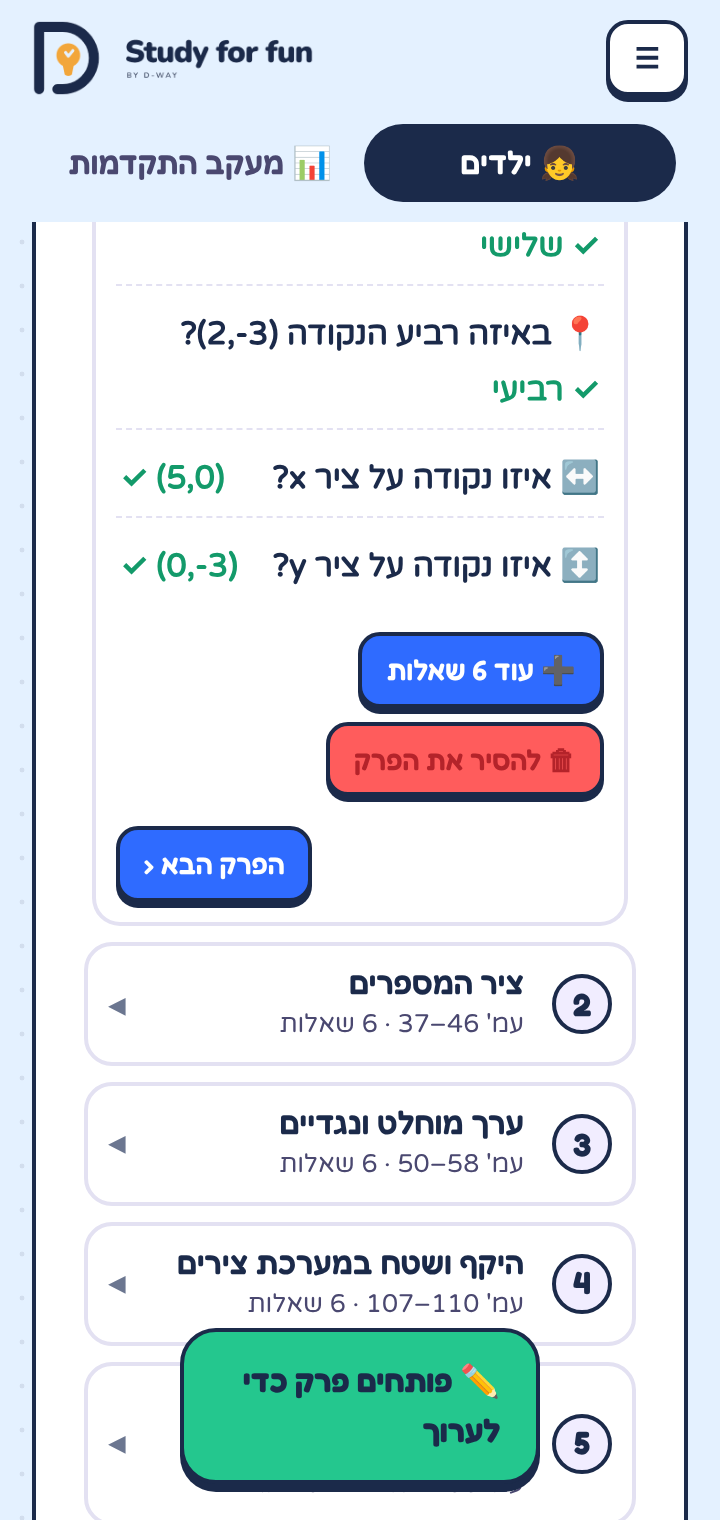
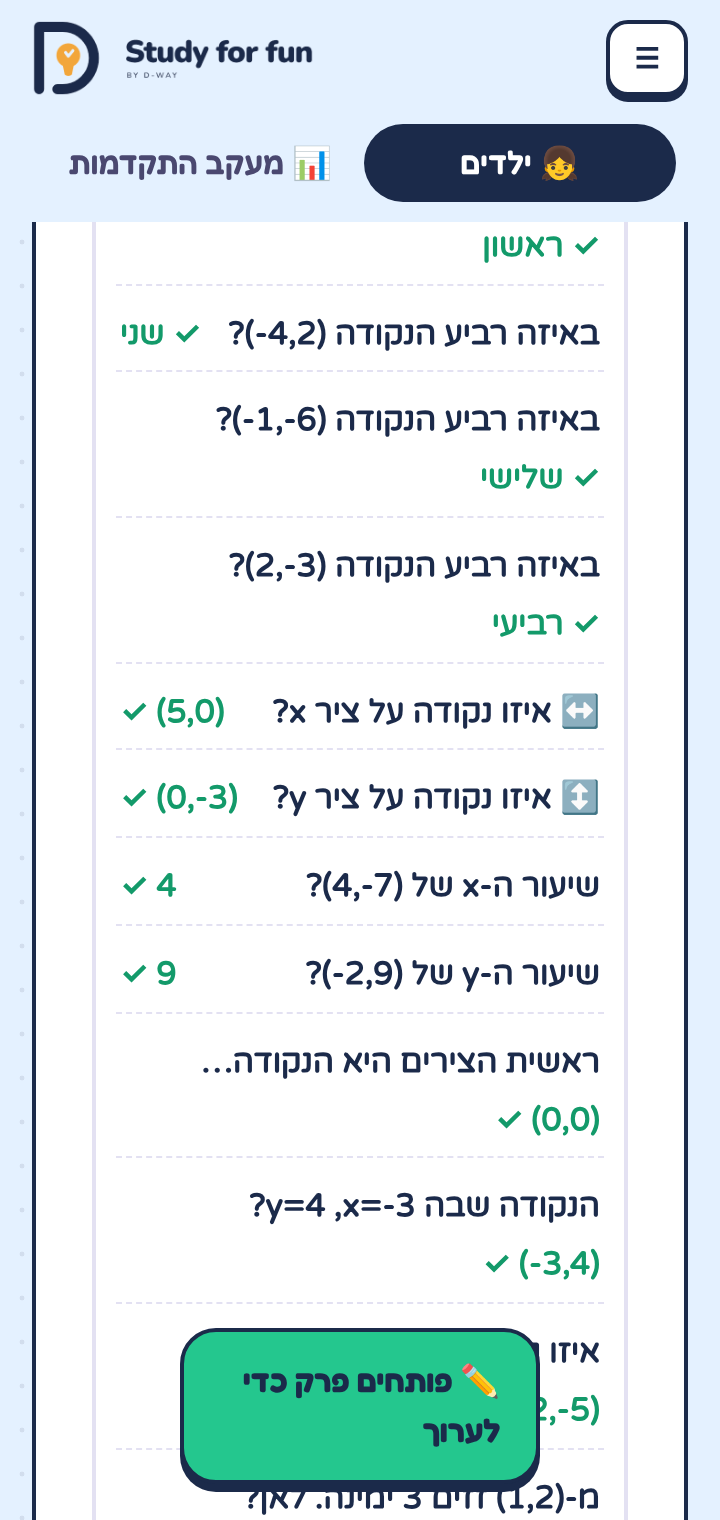
Pictures by default: no button; questions without a picture get one in the background; catalog sets untouched
Claude-Session: https://claude.ai/code/session_018ARCFrnypinXbQosbA2nGK

diff --git a/public/index.html b/public/index.html
@@ -14,8 +14,8 @@
   });
 })();
 </script>
-<meta name="sff-ver" content="sff-v102">
-<script src="/i18n.js?v=sff-v102"></script>
+<meta name="sff-ver" content="sff-v103">
+<script src="/i18n.js?v=sff-v103"></script>
 <script>
 /* Math inside Hebrew ("מה חסר? _ + 20 = 90") is wrapped in Unicode isolates U+2066…U+2069. iPhone Safari ignores them and
    shows "90 = 20 + _", so every such run is drawn in a real left-to-right element instead. */
@@ -36,7 +36,7 @@
   document.addEventListener('DOMContentLoaded',()=>walk(document.body));
 })();
 </script>
-<script src="/kid-rest.js?v=sff-v102"></script>
+<script src="/kid-rest.js?v=sff-v103"></script>
 <meta charset="utf-8">
 <meta name="viewport" content="width=device-width, initial-scale=1, maximum-scale=1, minimum-scale=1, user-scalable=no">
 <script>/* soft reload: the screen dims with a spinner instead of the white logo screen */
@@ -60,7 +60,7 @@ d.addEventListener('touchmove',function(e){if(e.touches&&e.touches.length>1)e.pr
   if(!kid){ try{ kid=!!(localStorage.getItem('sff_fam')&&localStorage.getItem('sff_tok')&&localStorage.getItem('sff_unlock')!=='1'); }catch(e){} }
   if(!kid){ var l=document.createElement('link'); l.rel='manifest'; l.href='/manifest.webmanifest'; document.head.appendChild(l); }
 }catch(e){} })();</script>
-<script src="/firebase-config.js?v=sff-v102"></script>
+<script src="/firebase-config.js?v=sff-v103"></script>
[1 lines of base64/hex data omitted]
 <link rel="apple-touch-icon" href="/icons/apple-touch-icon.png">
 <link rel="preconnect" href="https://fonts.googleapis.com">
@@ -453,7 +453,7 @@ body.kidside .pfoot,body.locked .pfoot{display:none}
 .quota{margin:12px 16px 0;border:2px solid #E3E1F2;border-radius:14px;padding:10px 12px;background:#F7F5FF}.quota.out{background:#FFF6E3;border-color:var(--sun)}
 body.noai .aioff{display:block;margin:0 0 12px;background:#FFF6E3;border-color:var(--sun);color:var(--ink)}
 body.noai .aioff-btn.show{display:inline-flex;margin-inline-start:auto;opacity:.6;cursor:not-allowed}
-body.noai #btnBuild,body.noai #picFix,body.noai #qaAll,body.noai #noAI{display:none!important}
+body.noai #btnBuild,body.noai #qaAll,body.noai #noAI{display:none!important}
 #parentBack{display:none}body.kidside:not(.locked) #parentBack{display:inline-flex;white-space:nowrap}   /* parent previewing the kid's screens */
 #kidMe{display:none}body.kidside #kidMe{display:inline-flex;background:var(--sun);color:var(--ink);white-space:nowrap}
 .rdlegend{display:flex;flex-wrap:wrap;gap:6px;margin:0 0 10px}
@@ -1011,7 +1011,7 @@ html.isadmin body:not(.locked) header .tabs[role=tablist]{display:inline-flex}
         <div class="actions" style="margin-top:8px"><button class="btn small" onclick="copyShare()">העתקה</button><span id="shareMsg" class="hint"></span></div>
       </div>
       <div id="workBox" class="workbox hidden" role="status" aria-live="polite"></div>
-      <div id="picFix" class="hidden" style="text-align:center;margin-top:12px"><button class="btn sun" onclick="fixPictures()">🖼 להפוך לשאלות תמונה</button> <span class="hint" id="picMsg"></span></div>
+
     </div>
   </section>
 
@@ -1970,8 +1970,9 @@ const words=t=>String(t||'').trim().split(/\s+/).filter(Boolean).length;
 const needsPic=q=>!q.scene || words(q.question)>6 || words(q.explanation)>14 || q.options.some(o=>words(o)>4) || q.question.toLowerCase().includes(String(q.options[q.answer]).toLowerCase());
 // The picture must show the ANSWER itself – never a related thing (🐸 for "jump" makes a child think "frog").
 const PIC_RULE = 'PICTURE MUST BE RELATED: every scene shows what THIS question is about – never a decoration (no lone 🤔 ❓ 🔢 ➕ ➖ ✏ 📝 🔟 💯 etc.). Several things = several items, ONE emoji per item (never "🍎🍎🍎" in one item), all inside 0-100 with room for their size. For number questions with nothing real to draw, a scene item may be a short text card instead of an emoji (max 16 chars, e.g. {"e":"12 → ?","x":50,"y":50,"s":30} or {"e":"5 + 3",...}) showing the given numbers – never the answer. For word problems show the story\'s objects (5 apples = five 🍎 items). '+'PICTURE RULE (strict): the scene must show the correct answer ITSELF, so a child who sees only the picture thinks of that exact word and of no other option. Never a related object or animal instead (a frog for "jump" is WRONG: the child thinks "frog"; a cup for "eat" is WRONG). Verbs: show the person doing the action (🏃 run, 🏊 swim, 😴 sleep, 🤸 jump). No picture where another option also fits (a frog can jump AND swim). Use only common emojis from before 2019. If no emoji shows the word clearly, put its Hebrew meaning in brackets in the question, e.g. "j_mp (לקפוץ)".';
-async function picturePass(qs, ctx, askFn=ask, onProgress){
-  const idx=qs.map((q,i)=>needsPic(q)?i:-1).filter(i=>i>=0);
+async function picturePass(qs, ctx, askFn=ask, onProgress, want=needsPic){
+  for(let round=0; round<2; round++){                       // a second round for any question still without a picture
+  const idx=qs.map((q,i)=>(round?noPic(q):want(q))?i:-1).filter(i=>i>=0); if(!idx.length) break;
   for(let k=0;k<idx.length;k+=12){
     if(onProgress) onProgress(k, idx.length);
     const part=idx.slice(k,k+12);
@@ -1992,6 +1993,7 @@ ITEMS: ${JSON.stringify(part.map(i=>({i,question:qs[i].question,options:qs[i].op
       if(Array.isArray(it.options)&&it.options.length===4&&it.options.every(o=>typeof o==='string'&&o.trim())&&new Set(it.options.map(o=>o.trim())).size===4) q.options=it.options.map(o=>o.trim());
       if(typeof it.question==='string' && it.question.trim() && !it.question.toLowerCase().includes(String(q.options[q.answer]).toLowerCase())) q.question=it.question.trim();
       if(typeof it.explanation==='string' && it.explanation.trim() && words(it.explanation)<=16) q.explanation=it.explanation.trim(); });
+  }
   }
   return qs;
 }
@@ -2066,8 +2068,8 @@ function renderWordCov(set){
 function renderReview(set){
   $('shareBox').classList.add('hidden');
   $('rCompete').checked=!!set.compete;
-  const nNo=set.picDone?0:set.questions.filter(needsPic).length; $('picFix').classList.toggle('hidden', !nNo || set.demo); $('picMsg').textContent=nNo?`${nNo} ❓`:'';
-  if(nNo && !set.demo && sample && !set.picAuto && !PIC_BUSY){ set.picAuto=true; store.save(); fixPictures(); }
+  // every question has a picture – by default, no button: questions that still have none get one in the background
+  if(missingPics(set).length && sample && !PIC_BUSY && canManage() && Date.now()-(set.picTry||0)>6*3600e3){ set.picTry=Date.now(); store.save(); fixPictures(); }
   const [c,ico]=subjStyle(set.subject), dark=['#F2A63B','#24C78E','#B9A7FF'].includes(c);
   $('rIco').style.background=c; $('rIco').style.color=dark?'#1B2A4A':'#fff'; $('rIco').textContent=ico;
   $('rTitle').textContent=`${set.subject} · ${set.name}`;
@@ -2184,22 +2186,19 @@ let PIC_BUSY=false;
 function workShow(step, sub){ const w=$('workBox'); if(!w) return; w.classList.remove('hidden','done','err'); w.innerHTML=`<div class="ring sm"></div><div><b>${esc(step)}</b>${sub?`<div class="hint">${esc(sub)}</div>`:''}</div>`; }
 function workDone(text, err){ if($('vReview').classList.contains('hidden')) toast((err?'⚠ ':'✅ ')+text); const w=$('workBox'); if(!w) return; w.classList.remove('hidden'); w.classList.toggle('err',!!err); w.classList.toggle('done',!err);
   w.innerHTML=`<span style="font-size:1.4em">${err?'⚠':'✅'}</span><div><b>${esc(text)}</b></div><button class="btn ghost small" onclick="$('workBox').classList.add('hidden')" aria-label="סגירה">✕</button>`; }
+// questions without any picture (catalog sets are checked when they are built – never touched here)
+const noPic=q=>!Array.isArray(q.scene)||!q.scene.length;
+function missingPics(set){ return set&&!set.demo&&!(set.src&&set.shared&&!set.edited) ? set.questions.filter(noPic) : []; }
 async function fixPictures(){
-  const set=curSet; if(PIC_BUSY||!set) return;
-  if(!sample){ workDone('בניית תמונות עם AI תיפתח בקרוב', true); return; }
-  PIC_BUSY=true; $('picFix').classList.add('hidden');
-  const n0=set.questions.filter(needsPic).length;
+  const set=curSet; if(PIC_BUSY||!set||!sample) return; const n0=missingPics(set).length; if(!n0) return;
+  PIC_BUSY=true;
   try{
-    const isEn=/אנגלית/.test(set.subject), ctx=`Student: Israeli school, grade ${GRADES[set.grade]}. Subject: ${set.subject}.`;
-    workShow('🖼 מכינים תמונות לשאלות…', `${n0} שאלות · כדקה-שתיים`);
-    await picturePass(set.questions, ctx, ask, (k,n)=>workShow('🖼 מכינים תמונות לשאלות…', `${Math.min(k+12,n)} מתוך ${n}`));
-    workShow('✅ בודקים את התשובות…', 'עוד רגע');
-    const r=await runQA(set.questions, ctx, isEn?'Questions and options in English; explanations in simple Hebrew.':'Everything in Hebrew.');
-    set.questions=r.questions; set.qa.log=(set.qa.log||[]).concat(r.log); set.qa.fixed+=r.fixed; set.qa.dropped+=r.dropped;
-    set.picDone=true; PIC_BUSY=false; store.save(); renderReview(set);
-    const left=set.questions.filter(needsPic).length; workDone(`${n0-left} שאלות קיבלו תמונה${left?` · ${left} נשארו בלי`:''}`);
-  }catch(e){ PIC_BUSY=false; $('picFix').classList.remove('hidden'); logFail('pictures', e, set.subject);
-    workDone(e?.code==='rate_limited'?'יותר מדי בקשות – נסו שוב בעוד דקה':e?.code==='light'?'הגעתם למגבלת העריכות החודשית':'לא הצלחנו להכין תמונות. נסו שוב מאוחר יותר.', true); }
+    const ctx=`Student: Israeli school, grade ${GRADES[set.grade]}. Subject: ${set.subject}.`;
+    workShow('🖼 מוסיפים תמונות לשאלות…', `${n0} שאלות · אפשר להמשיך באפליקציה`);
+    await picturePass(set.questions, ctx, ask, (k,n)=>workShow('🖼 מוסיפים תמונות לשאלות…', `${Math.min(k+12,n)} מתוך ${n}`), noPic);
+    PIC_BUSY=false; store.save(); if(curSet===set) renderReview(set);
+    const left=missingPics(set).length; workDone(`🖼 ${n0-left} שאלות קיבלו תמונה${left?` · ${left} עוד בלי`:''}`, false);
+  }catch(e){ PIC_BUSY=false; logFail('pictures', e, set.subject); const w=$('workBox'); if(w) w.classList.add('hidden'); }
 }
 function delQ(i){ curSet.questions.splice(i,1); markEdited(curSet); renderReview(curSet); }
 
@@ -2577,7 +2576,7 @@ function kidTrophies(k){ return kidSets(k).reduce((a,x)=>a+trophyDays(x),0); }
 
 /* ---------- parent: one card per child ---------- */
 let QA_ALL_BUSY=false;
-function qaAllPending(){ return sets.filter(x=>!x.picDone&&x.questions.some(needsPic)); }
+function qaAllPending(){ return sets.filter(x=>missingPics(x).length); }
 async function qaAllSets(){
   if(QA_ALL_BUSY) return; const msg=$('qaAllMsg');
   if(!sample){ msg.textContent='⚠ AI'; return; }

diff --git a/tools/tests/local_autopics.js b/tools/tests/local_autopics.js
@@ -1,0 +1,25 @@
+// Pictures by default: opening a parent-built practice set whose questions have no picture adds them in the background
+// (only those questions, nothing else changes). Catalog sets are never touched. There is no picture button.
+const { chromium } = require('playwright');
+(async () => {
+  const b = await chromium.launch(); const p = await (await b.newContext({ viewport: { width: 360, height: 720 } })).newPage();
+  const errs = []; p.on('pageerror', e => errs.push(e.message));
+  await p.addInitScript(() => localStorage.setItem('sff_lang', 'he'));
+  await p.goto('http://localhost:8765/', { waitUntil: 'load' }); await p.waitForTimeout(2000); await p.evaluate(() => document.getElementById('fbLogin')?.remove());
+  const r = await p.evaluate(async () => {
+    let calls = 0, asked = [];
+    sample = { limits: async () => ({ images: true }), json: async prompt => { calls++; const m = prompt.match(/ITEMS: (\[.*\])\s*$/s); const items = m ? JSON.parse(m[1]) : [];
+      asked.push(items.map(x => x.i)); return { items: items.map(x => ({ i: x.i, scene: [{ e: '🍎', x: 50, y: 50, s: 40 }], question: x.question, options: x.options, explanation: 'הסבר' })) }; } };
+    kids.push({ id: 'k1', name: 'נועה', grade: 0, color: '#FF5C8A' });
+    const mine = { id: 'm1', kidId: 'k1', name: 'נועה', grade: 0, subject: 'מדעים', topics: ['א'], chapters: null, qa: {}, created: Date.now(),
+      questions: [0, 1, 2].map(i => ({ topic: 'א', question: 'שאלה ' + i, options: ['a' + i, 'b', 'c', 'd'], answer: 0, explanation: '', ...(i === 1 ? { scene: [{ e: '🐶', x: 50, y: 50, s: 40 }] } : {}) })) };
+    const cat = await loadShare('math1'); cat.id = 'c1'; cat.questions = cat.qs; cat.src = 'math1'; cat.shared = true; cat.kidId = 'k1'; cat.questions[0] = { ...cat.questions[0] }; delete cat.questions[0].scene;
+    sets.push(mine, cat);
+    curSet = cat; renderReview(cat); show('vReview'); await new Promise(r => setTimeout(r, 300)); const afterCat = calls;
+    curSet = mine; renderReview(mine); show('vReview'); await new Promise(r => setTimeout(r, 800));
+    return { afterCat, calls, asked, pics: mine.questions.map(q => (q.scene || [])[0]?.e), button: !!document.getElementById('picFix') };
+  });
+  console.log(JSON.stringify(r));
+  if (r.afterCat !== 0 || r.calls !== 1 || JSON.stringify(r.asked) !== '[[0,2]]' || r.pics.join('') !== '🍎🐶🍎' || r.button) errs.push('autopics');
+  console.log(JSON.stringify({ errs })); await b.close(); process.exit(errs.length ? 1 : 0);
+})().catch(e => { console.error('FAIL', e); process.exit(1); });

diff --git a/public/sw.js b/public/sw.js
@@ -1,6 +1,6 @@
 // Study for fun – service worker: the app opens even without network.
 // Bump VERSION on every deploy that changes the app shell.
-const VERSION = 'sff-v102';
+const VERSION = 'sff-v103';
 const SHELL = [
   '/',
   '/index.html',
